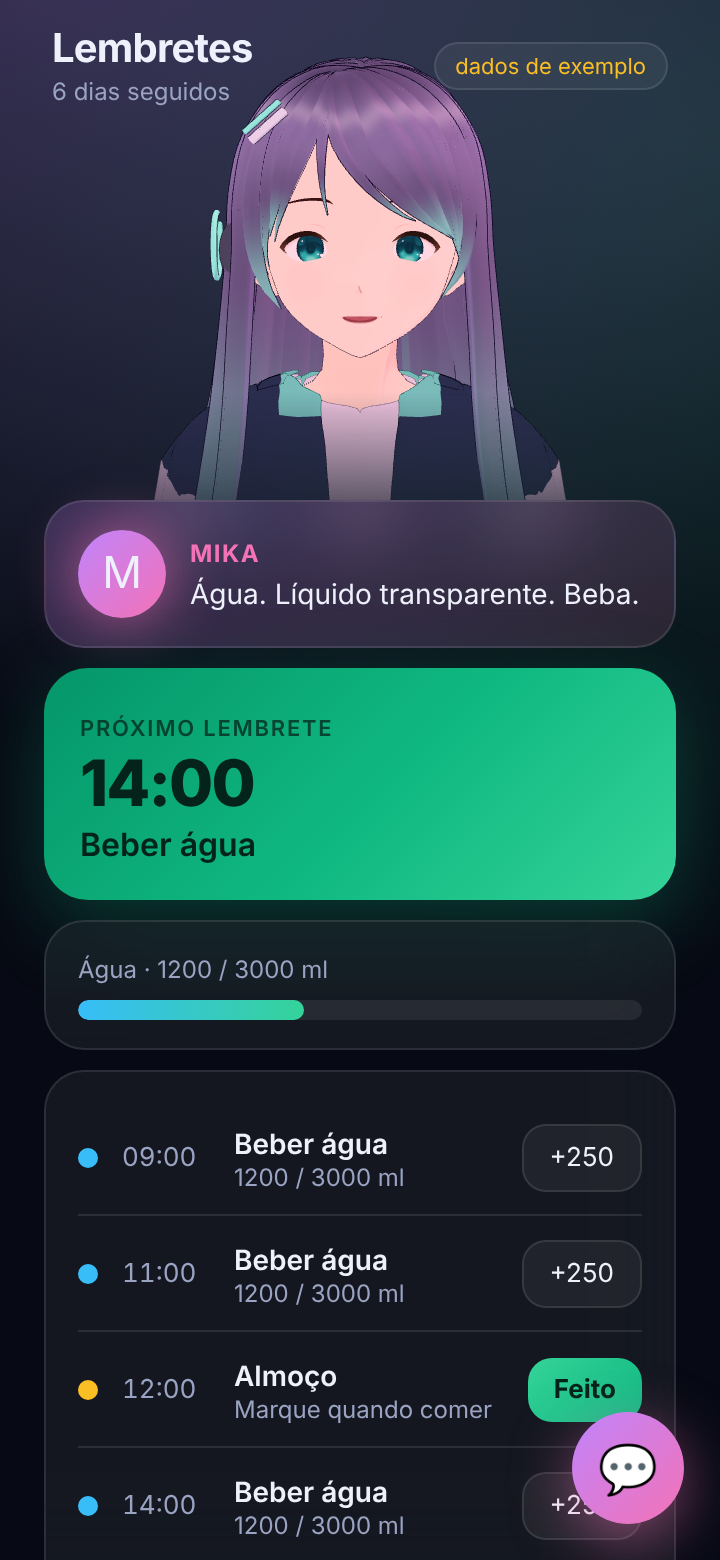
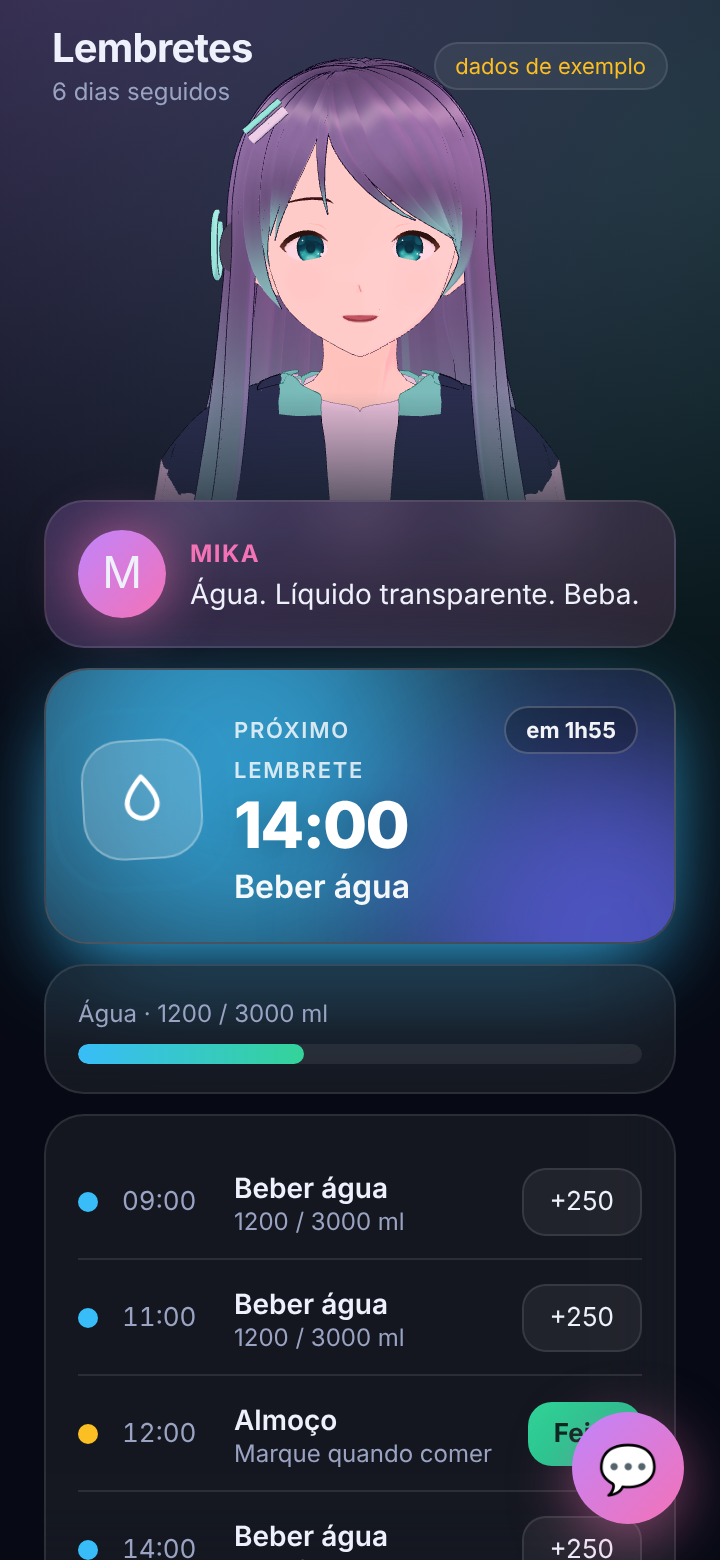
feat(lembretes): card de próximo lembrete com ícone, mesh animado e contagem
Claude-Session: https://claude.ai/code/session_01Cn6JQLKXu7PLS61LU6jjnp

diff --git a/lembretes/src/view.ts b/lembretes/src/view.ts
@@ -11,6 +11,15 @@ function row(r: Reminder, i: number): string {
 }
 const sw = (k: string, on: boolean, label: string): string => `<label class="sw"><input type="checkbox" data-set="${k}" ${on ? 'checked' : ''}><i></i>${label}</label>`;
 
+const ICON: Record<string, string> = {
+  ficha: '<path d="M6.5 6.5v11M17.5 6.5v11M3 9v6M21 9v6M6.5 12h11"/>',
+  refeicao: '<path d="M7 3v8a2 2 0 0 0 4 0V3M9 11v10M17 3c-2 2-3 5-3 8h3v10"/>',
+  agua: '<path d="M12 3s6 6.2 6 10.5a6 6 0 0 1-12 0C6 9.2 12 3 12 3z"/>',
+  fechamento: '<path d="M21 12.8A9 9 0 1 1 11.200 3a7 7 0 0 0 9.800 9.800z"/>',
+};
+const icon = (k: string): string => `<svg viewBox="0 0 24 24" fill="none" stroke="currentColor" stroke-width="2" stroke-linecap="round" stroke-linejoin="round">${ICON[k] ?? ICON.agua}</svg>`;
+const eta = (t: string, now: number): string => { const m = Number(t.slice(0, 2)) * 60 + Number(t.slice(3)) - now; return m <= 0 ? 'agora' : m < 60 ? `em ${m} min` : `em ${Math.floor(m / 60)}h${String(m % 60).padStart(2, '0')}`; };
+
 export interface ViewState { today: Today; error: string; mika: string; chat: { me: boolean; text: string }[]; chatOpen: boolean; now: number; set: Settings }
 
 export function view(s: ViewState): string {
@@ -24,7 +33,11 @@ export function view(s: ViewState): string {
     <header><div><h1>Lembretes</h1><div class="sub">${s.today.streak} dias seguidos</div></div>
       <span class="badge ${isMock() ? '' : 'live'}">${isMock() ? 'dados de exemplo' : 'API conectada'}</span></header>
     <div class="glass mika"><div class="av">M</div><div><b>Mika</b><p>${esc(s.mika)}</p></div></div>
-    <div class="next"><small>Próximo lembrete</small><div class="t">${nxt ? nxt.time : '✓'}</div><div class="n">${nxt ? esc(nxt.title) : 'Tudo em dia hoje'}</div></div>
+    ${nxt ? `<div class="next k-${nxt.kind}"><span class="orb o1"></span><span class="orb o2"></span>
+      <div class="ico"><span class="ring"></span>${icon(nxt.kind)}</div>
+      <div class="ntx"><small>Próximo lembrete</small><div class="t">${nxt.time}</div><div class="n">${esc(nxt.title)}</div></div>
+      <span class="eta">${eta(nxt.time, s.now)}</span></div>`
+    : `<div class="next k-done"><span class="orb o1"></span><div class="ico">${icon('ficha').replace(/<path[^>]*>/, '<path d="M5 12.5l4.5 4.500L19 7.5"/>')}</div><div class="ntx"><small>Próximo lembrete</small><div class="n big">Tudo em dia hoje</div></div></div>`}
     <div class="glass"><div class="sub">Água · ${s.today.water.ml} / ${s.today.water.goalMl} ml</div><div class="bar"><i style="width:${pct}%"></i></div></div>
     <div class="glass list">${todo.map((r, i) => row(r, i)).join('') || '<div class="sub">Nada pendente 🎉</div>'}
       ${done.length ? `<button class="fold" data-fold aria-expanded="${!s.set.hideDone}"><span>${done.length} confirmados</span><i>▾</i></button>

diff --git a/lembretes/src/style.css b/lembretes/src/style.css
@@ -54,3 +54,16 @@ body.nobg #mika-bg { opacity:0; }
 .sw input { display:none; } .sw i { width:34px; height:20px; border-radius:20px; background:var(--card2); position:relative; transition:background .25s; } .sw i::after { content:""; position:absolute; top:3px; left:3px; width:14px; height:14px; border-radius:50%; background:#fff; transition:transform .25s; }
 .sw input:checked + i { background:var(--accent); } .sw input:checked + i::after { transform:translateX(14px); }
 @media (prefers-reduced-motion:reduce) { *, *::before, *::after { animation:none !important; transition:none !important; } }
+
+/* próximo lembrete: mesh animado + ícone por tipo */
+.next { --c1:#34d399; --c2:#0ea5e9; --c3:#a78bfa; display:flex; align-items:center; gap:16px; position:relative; overflow:hidden; border:1px solid rgba(255,255,255,.18); color:#fff; background:linear-gradient(135deg,rgba(255,255,255,.1),rgba(255,255,255,.02)), #0b1a2a; box-shadow:0 14px 44px -10px var(--c1); isolation:isolate; }
+.next.k-refeicao { --c1:#fbbf24; --c2:#fb7185; --c3:#f59e0b; } .next.k-agua { --c1:#38bdf8; --c2:#22d3ee; --c3:#6366f1; } .next.k-fechamento { --c1:#f472b6; --c2:#c084fc; --c3:#6366f1; } .next.k-ficha { --c1:#34d399; --c2:#a3e635; --c3:#0ea5e9; }
+.orb { position:absolute; z-index:-1; width:190px; height:190px; border-radius:50%; filter:blur(38px); opacity:.75; animation:drift 9s ease-in-out infinite alternate; }
+.o1 { background:var(--c1); top:-70px; left:-50px; } .o2 { background:var(--c3); right:-60px; bottom:-90px; animation-duration:12s; animation-direction:alternate-reverse; }
+@keyframes drift { to { transform:translate(60px,26px) scale(1.25); } }
+.next::after { background:linear-gradient(110deg,transparent 30%,rgba(255,255,255,.22) 50%,transparent 70%); }
+.ico { position:relative; flex:none; width:60px; height:60px; border-radius:20px; display:grid; place-items:center; background:rgba(255,255,255,.16); border:1px solid rgba(255,255,255,.3); backdrop-filter:blur(8px); animation:bob 3.2s ease-in-out infinite; }
+.ico svg { width:30px; height:30px; } .ring { position:absolute; inset:-2px; border-radius:22px; border:2px solid var(--c1); animation:ping 2.4s ease-out infinite; }
+@keyframes bob { 50% { transform:translateY(-4px) rotate(-4deg); } } @keyframes ping { from { opacity:.9; transform:scale(1); } to { opacity:0; transform:scale(1.5); } }
+.ntx { flex:1; min-width:0; } .next small { opacity:.8; } .next .t { font-size:40px; color:#fff; text-shadow:0 2px 18px rgba(0,0,0,.25); } .next .n { color:#fff; opacity:.95; } .next .n.big { font-size:18px; margin-top:6px; }
+.eta { align-self:flex-start; font-size:11px; font-weight:700; padding:4px 10px; border-radius:99px; background:rgba(0,0,0,.28); border:1px solid rgba(255,255,255,.22); animation:blink 2.4s ease-in-out infinite; } @keyframes blink { 50% { opacity:.6; } }
